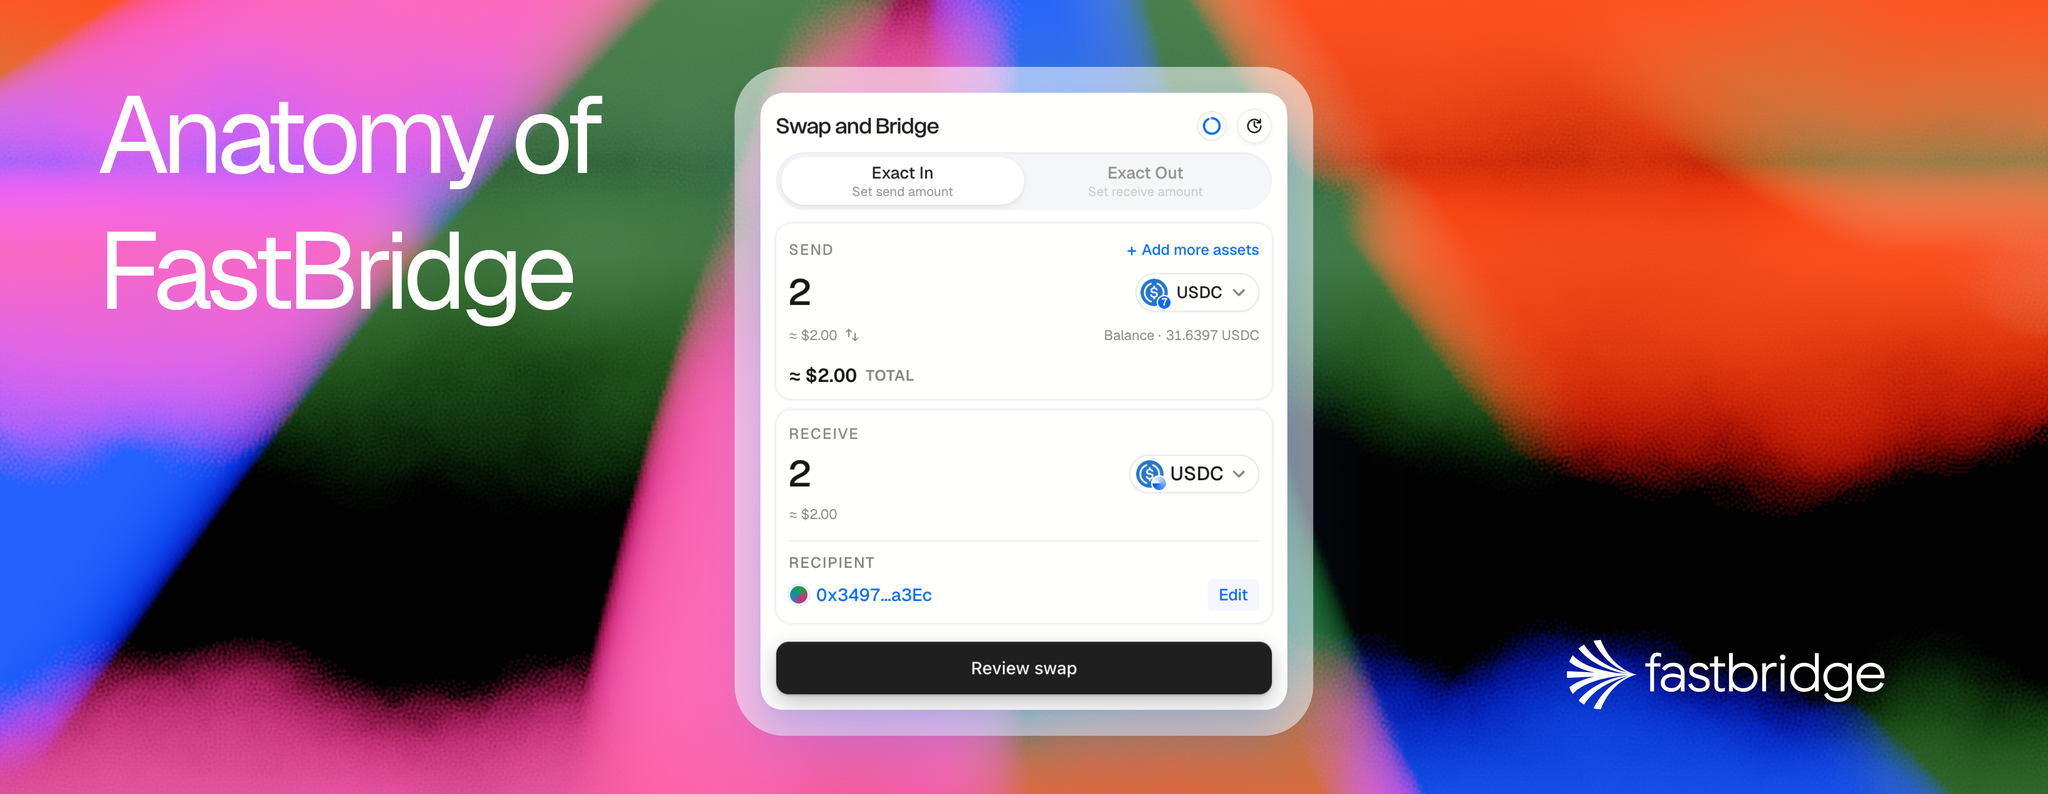
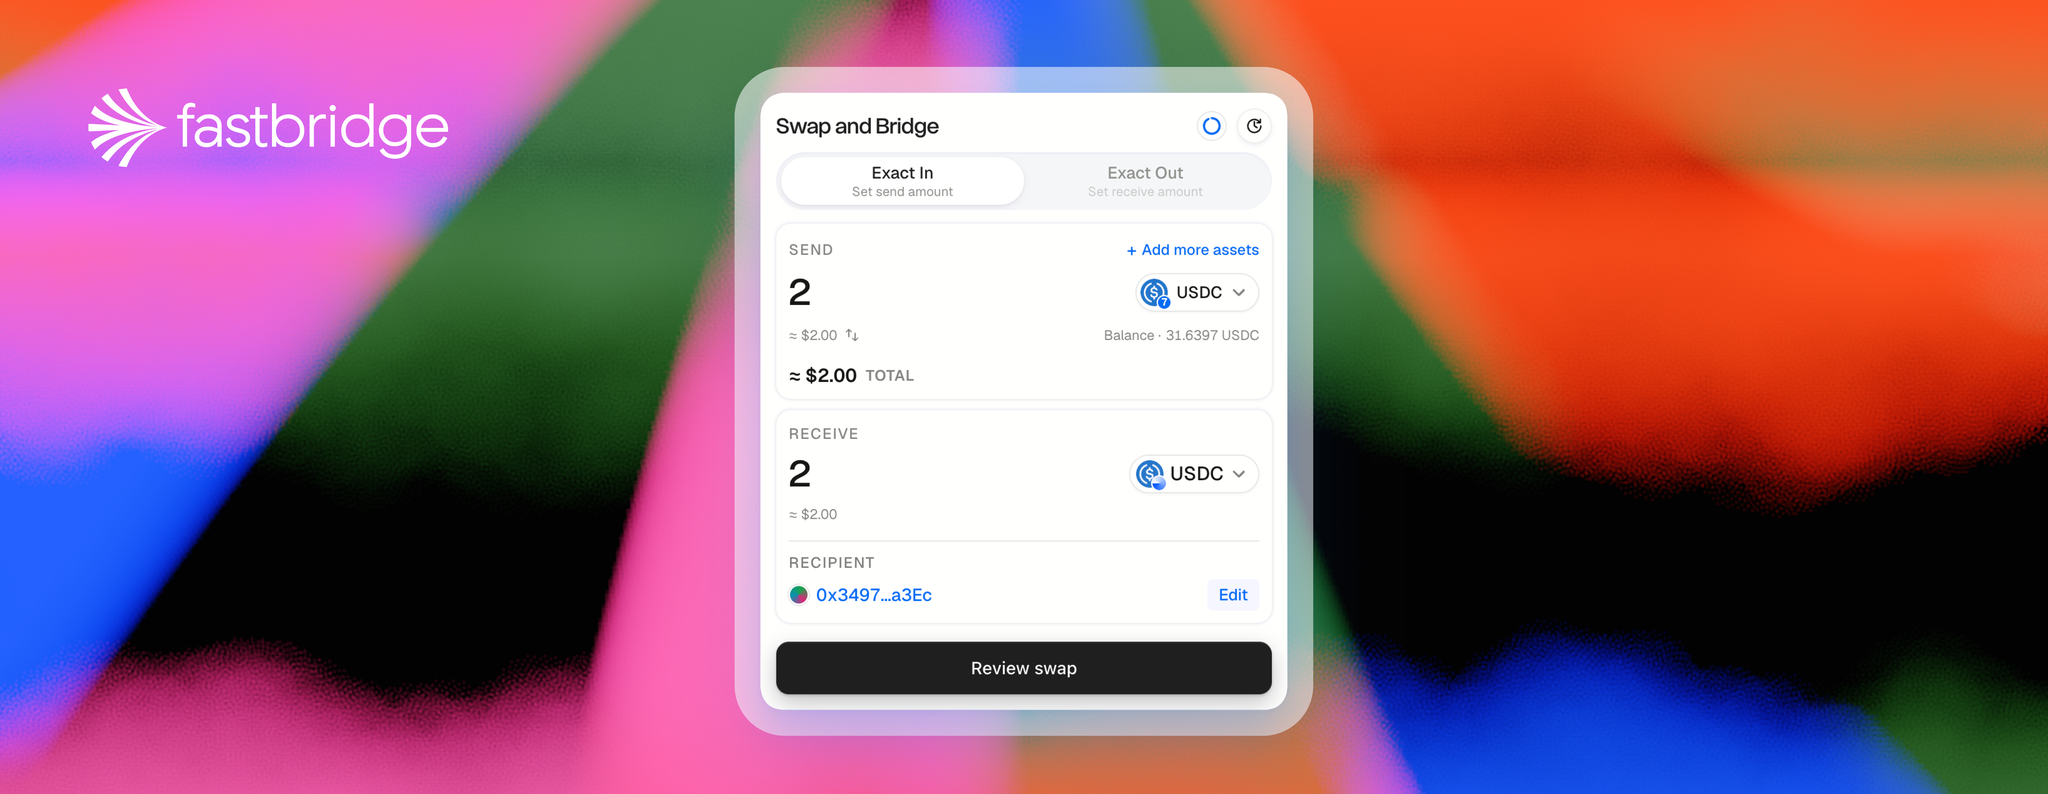
Update Anatomy of FastBridge guide screenshot.
Replace the featured pick image with the latest Exact In UI export.

Changed region(s): [[0.0312, 0.1209, 0.3125, 0.2418], [0.0312, 0.272, 0.2812, 0.4232], [0.75, 0.8161, 0.9375, 0.8766]]

diff --git a/guides/index.html b/guides/index.html
@@ -113,10 +113,10 @@
               </div>
               <p class="seo-pick__tagline"><strong>Best for:</strong> consolidating assets from multiple chains; cross-chain swaps; onboarding to new EVM L2s without managing gas.</p>
               <figure class="seo-pick__screenshot seo-pick__screenshot--filled seo-pick__screenshot--wide">
-                <a href="../assets/branding/screenshots/anatomy-of-fastbridge@2x.png?v=3" target="_blank" rel="noopener noreferrer">
+                <a href="../assets/branding/screenshots/anatomy-of-fastbridge@2x.png?v=4" target="_blank" rel="noopener noreferrer">
                   <img
-                    src="../assets/branding/screenshots/anatomy-of-fastbridge.png?v=3"
-                    srcset="../assets/branding/screenshots/anatomy-of-fastbridge.png?v=3 2048w, ../assets/branding/screenshots/anatomy-of-fastbridge@2x.png?v=3 4096w"
+                    src="../assets/branding/screenshots/anatomy-of-fastbridge.png?v=4"
+                    srcset="../assets/branding/screenshots/anatomy-of-fastbridge.png?v=4 2048w, ../assets/branding/screenshots/anatomy-of-fastbridge@2x.png?v=4 4096w"
                     sizes="(max-width: 1024px) 100vw, min(100%, 900px)"
                     alt="Anatomy of FastBridge — Swap and Bridge interface with Exact In and Exact Out"
                     width="2048"

diff --git a/best-cross-chain-bridge-2026.html b/best-cross-chain-bridge-2026.html
@@ -113,10 +113,10 @@
               </div>
               <p class="seo-pick__tagline"><strong>Best for:</strong> consolidating assets from multiple chains; cross-chain swaps; onboarding to new EVM L2s without managing gas.</p>
               <figure class="seo-pick__screenshot seo-pick__screenshot--filled seo-pick__screenshot--wide">
-                <a href="assets/branding/screenshots/anatomy-of-fastbridge@2x.png?v=3" target="_blank" rel="noopener noreferrer">
+                <a href="assets/branding/screenshots/anatomy-of-fastbridge@2x.png?v=4" target="_blank" rel="noopener noreferrer">
                   <img
-                    src="assets/branding/screenshots/anatomy-of-fastbridge.png?v=3"
-                    srcset="assets/branding/screenshots/anatomy-of-fastbridge.png?v=3 2048w, assets/branding/screenshots/anatomy-of-fastbridge@2x.png?v=3 4096w"
+                    src="assets/branding/screenshots/anatomy-of-fastbridge.png?v=4"
+                    srcset="assets/branding/screenshots/anatomy-of-fastbridge.png?v=4 2048w, assets/branding/screenshots/anatomy-of-fastbridge@2x.png?v=4 4096w"
                     sizes="(max-width: 1024px) 100vw, min(100%, 900px)"
                     alt="Anatomy of FastBridge — Swap and Bridge interface with Exact In and Exact Out"
                     width="2048"
